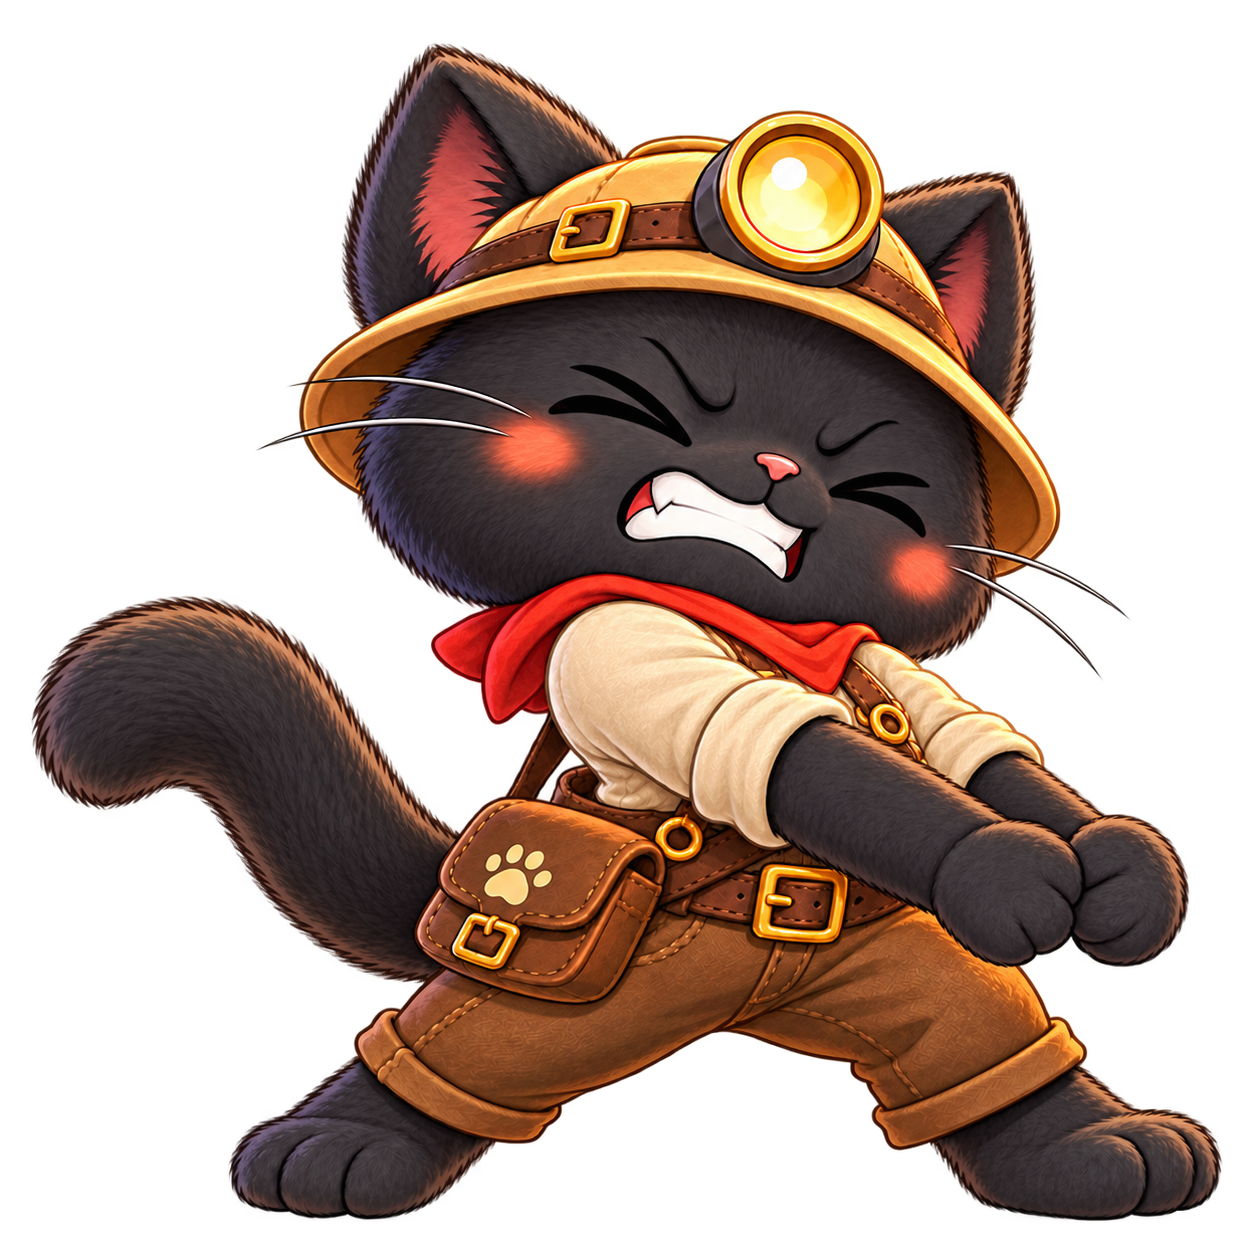
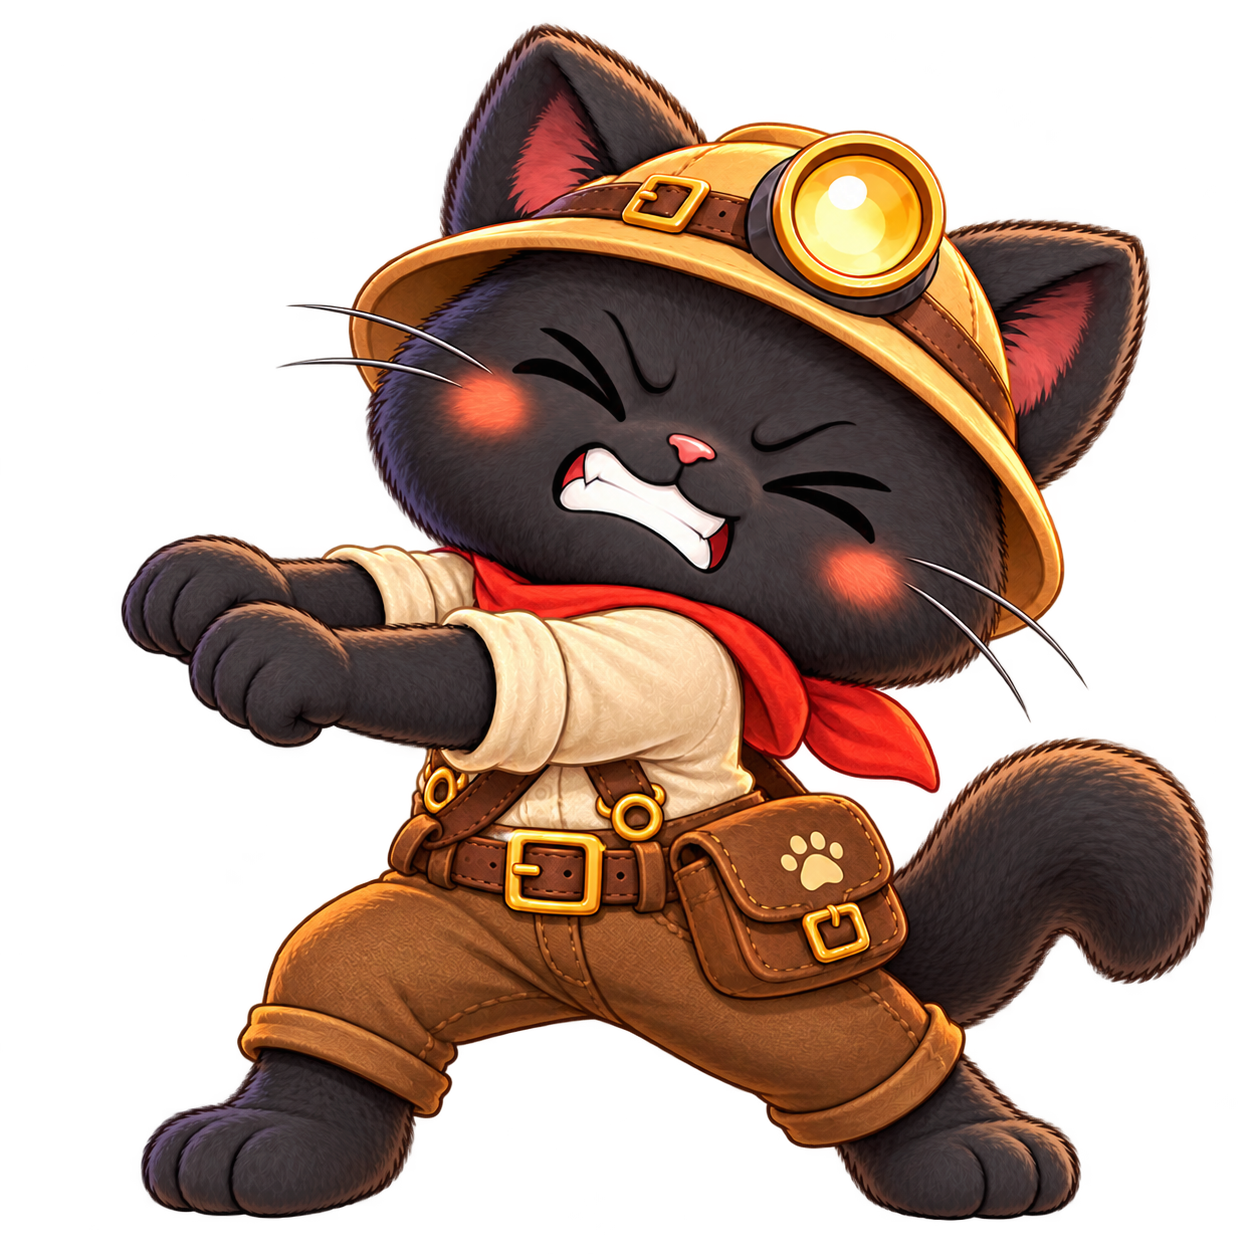
fix: show cat operating the heavy-load winch

diff --git a/tests/game.test.js b/tests/game.test.js
@@ -17,11 +17,11 @@ test('pause holds all state and resumes a loaded return',()=>{const g=playing();
 test('empty return restores swing without changing the board',()=>{const g=playing();const board=g.items;g.items=[];g.hook.state='empty';g.hook.length=40;g.score=100;g.update(.1);assert.equal(g.hook.state,'swing');assert.equal(g.items.length,0);assert.equal(g.score,100);assert.equal(g.remaining,59.9);assert.notEqual(g.items,board);});
 test('weight determines return speed',()=>{for(const type of ['largeGold','largeSilver']){const g=playing();g.hook={state:'returning',angle:0,length:300,caught:{type,...CONFIG.objects[type]}};g.update(.2);assert.ok(Math.abs(g.hook.length-(300-420/CONFIG.objects[type].weight*.2))<1e-8);}});
 test('resize pauses and preserves item identity, hook cargo, elapsed time and score',()=>{const g=playing();g.hook={state:'returning',angle:.6,length:200,caught:{id:99,type:'book',...CONFIG.objects.book,x:540,y:300,scholarId:ids[0]}};g.score=50;g.remaining=35;const before=g.items.map(x=>x.id);g.resize(true);assert.equal(g.phase,'paused');assert.deepEqual(g.items.map(x=>x.id),before);assert.equal(g.hook.caught.id,99);assert.equal(g.remaining,35);assert.equal(g.score,50);g.resize(false);assert.ok(Math.abs(g.hook.angle-.6)<1e-8);assert.ok(Math.abs(g.hook.length-200)<1e-8);});
-test('desktop and mobile equipment keep the deck, winch outlet and physics origin aligned',()=>{for(const portrait of [false,true]){const size=sceneSize(portrait),layout=equipmentLayout(size),catHeight=120*.83*layout.scale;assert.equal(layout.origin.x,size.width/2);assert.ok(Math.abs(layout.platform.y+layout.platform.height*.31-layout.deckY)<1e-8);assert.ok(Math.abs(layout.winch.y+layout.winch.height*.77-layout.origin.y)<1e-8);assert.ok(Math.abs(layout.winch.y+layout.winch.height-layout.deckY)<1e-8);assert.ok(Math.abs(layout.winch.height/catHeight-.823)<.01);assert.ok(layout.platform.x>=0&&layout.platform.x+layout.platform.width<=size.width);const game=new Game({portrait,scholars:ids});assert.deepEqual(game.origin,layout.origin);}});
+test('desktop and mobile equipment align the deck, winch outlet, crank, and physics origin',()=>{for(const portrait of [false,true]){const size=sceneSize(portrait),layout=equipmentLayout(size),catHeight=120*.83*layout.scale,pullingCatSize=catHeight,pullingCatLeft=layout.crank.x-pullingCatSize*.17;assert.equal(layout.origin.x,size.width/2);assert.ok(Math.abs(layout.platform.y+layout.platform.height*.31-layout.deckY)<1e-8);assert.ok(Math.abs(layout.winch.y+layout.winch.height*.77-layout.origin.y)<1e-8);assert.ok(Math.abs(layout.winch.y+layout.winch.height-layout.deckY)<1e-8);assert.ok(Math.abs(layout.crank.x-(layout.winch.x+layout.winch.width))<1e-8);assert.ok(Math.abs(layout.crank.y-(layout.winch.y+layout.winch.height*.45))<1e-8);assert.ok(Math.abs(layout.winch.height/catHeight-.823)<.01);assert.ok(pullingCatLeft>=layout.platform.x&&pullingCatLeft+pullingCatSize<=layout.platform.x+layout.platform.width);assert.ok(layout.platform.x>=0&&layout.platform.x+layout.platform.width<=size.width);const game=new Game({portrait,scholars:ids});assert.deepEqual(game.origin,layout.origin);}});
 test('gold, silver, gems, books and heavy penalty scrap spawn in each round',()=>{const items=generateBoard(sceneSize(false),ids,seedRandom(42));assert.equal(items.length,15);assert.equal(items.filter(x=>x.collectible!==false).length,12);assert.equal(items.filter(x=>x.type==='smallScrap').length,2);assert.equal(items.filter(x=>x.type==='largeScrap').length,1);assert.ok(fsExists(new URL('../assets/treasures/scrap-small.png',import.meta.url)));assert.ok(fsExists(new URL('../assets/treasures/scrap-large.png',import.meta.url)));for(const [small,medium,large] of [['smallGold','mediumGold','largeGold'],['smallSilver','mediumSilver','largeSilver']]){const tiers=[small,medium,large].map(type=>items.find(x=>x.type===type));assert.ok(tiers.every(Boolean));assert.ok(tiers[0].radius<tiers[1].radius&&tiers[1].radius<tiers[2].radius);assert.ok(tiers[0].score<tiers[1].score&&tiers[1].score<tiers[2].score);assert.ok(tiers[0].weight<tiers[1].weight&&tiers[1].weight<tiers[2].weight);}assert.equal(CONFIG.objects.smallScrap.score,-25);assert.equal(CONFIG.objects.largeScrap.score,-60);assert.ok(CONFIG.objects.smallScrap.weight>CONFIG.objects.largeGold.weight);assert.ok(CONFIG.objects.largeScrap.weight>CONFIG.objects.largeSilver.weight);assert.deepEqual(Object.fromEntries(Object.entries(CONFIG.objects).map(([type,spec])=>[type,spec.count])),{smallGold:2,mediumGold:1,largeGold:1,smallSilver:2,mediumSilver:2,largeSilver:1,gem:1,book:2,smallScrap:2,largeScrap:1});});
 test('all treasure sprites render without circular outlines',async()=>{assert.ok(fsExists(new URL('../assets/treasures/gem.png',import.meta.url)));const originalImage=globalThis.Image,drawn=[],arcs=[],ellipses=[];globalThis.Image=class{set src(value){this.url=value;this.width=1254;this.height=1254;this.onload();}};try{await loadSceneAssets();const ctx={save(){},restore(){},translate(){},beginPath(){},ellipse(){ellipses.push(true);},fill(){},drawImage(image){drawn.push(image.url);},arc(){arcs.push(true);}};const types=['gem','book','smallGold','mediumGold','largeGold','smallSilver','mediumSilver','largeSilver','smallScrap','largeScrap'];for(const type of types)drawItem(ctx,{type,radius:20,x:20,y:30});assert.equal(drawn.length,types.length);assert.equal(ellipses.length,types.length);assert.deepEqual(arcs,[]);}finally{if(originalImage===undefined)delete globalThis.Image;else globalThis.Image=originalImage;}});
 test('cat sprite visible feet align exactly with the platform deck',async()=>{const drawn=[],originalImage=globalThis.Image;globalThis.Image=class{set src(value){this.url=value;this.width=1254;this.height=1254;this.onload();}};try{await loadSceneAssets();drawCat({drawImage(...args){drawn.push(args);}},120,162,.83);const [, , top, ,height]=drawn.at(-1);assert.ok(Math.abs(top+height*(1222/1254)-162)<1e-9);}finally{if(originalImage===undefined)delete globalThis.Image;else globalThis.Image=originalImage;}});
-test('approved cat reaction sprites are loaded, selected, and heavy loads align the live cable to their paws',async()=>{const drawn=[],originalImage=globalThis.Image;globalThis.Image=class{set src(value){this.url=value;this.width=1254;this.height=1254;this.onload();}};try{for(const file of ['miner-cat-happy.png','miner-cat-sweaty.png','miner-cat-pulling.png'])assert.ok(fsExists(new URL(`../assets/scene/${file}`,import.meta.url)));await loadSceneAssets();const ctx={drawImage(...args){drawn.push(args);}};for(const [mood,file] of [['happy','miner-cat-happy.png'],['sweaty','miner-cat-sweaty.png'],['pulling','miner-cat-pulling.png'],['default','miner-cat.png']]){drawCat(ctx,120,162,.83,mood,480);assert.equal(drawn.at(-1)[0].url,`assets/scene/${file}`);if(mood==='pulling')assert.ok(Math.abs(drawn.at(-1)[1]+drawn.at(-1)[3]*.87-480)<1e-8);}for(const [hook,catMood,until,expected] of [[{state:'returning',caught:{weight:3}},'happy',2,'pulling'],[{state:'returning',caught:{weight:2.9}},'happy',2,'happy'],[{state:'swing',caught:null},'sweaty',2,'sweaty'],[{state:'swing',caught:null},'happy',0,'default']])assert.equal(catMoodForGame({hook,catMood,catMoodUntil:until,elapsed:1}),expected);}finally{if(originalImage===undefined)delete globalThis.Image;else globalThis.Image=originalImage;}});
+test('approved cat reaction sprites are loaded, selected, and heavy loads align the operator paws to the crank',async()=>{const drawn=[],originalImage=globalThis.Image;globalThis.Image=class{set src(value){this.url=value;this.width=1254;this.height=1254;this.onload();}};try{for(const file of ['miner-cat-happy.png','miner-cat-sweaty.png','miner-cat-pulling.png'])assert.ok(fsExists(new URL(`../assets/scene/${file}`,import.meta.url)));await loadSceneAssets();const ctx={drawImage(...args){drawn.push(args);}},crank={x:540,y:117};for(const [mood,file] of [['happy','miner-cat-happy.png'],['sweaty','miner-cat-sweaty.png'],['pulling','miner-cat-pulling.png'],['default','miner-cat.png']]){drawCat(ctx,600,162,.83,mood,crank);assert.equal(drawn.at(-1)[0].url,`assets/scene/${file}`);if(mood==='pulling'){assert.ok(Math.abs(drawn.at(-1)[1]+drawn.at(-1)[3]*.17-crank.x)<1e-8);assert.ok(Math.abs(drawn.at(-1)[2]+drawn.at(-1)[4]*.5-crank.y)<4);}}for(const [hook,catMood,until,expected] of [[{state:'returning',caught:{weight:3}},'happy',2,'pulling'],[{state:'returning',caught:{weight:2.9}},'happy',2,'happy'],[{state:'swing',caught:null},'sweaty',2,'sweaty'],[{state:'swing',caught:null},'happy',0,'default']])assert.equal(catMoodForGame({hook,catMood,catMoodUntil:until,elapsed:1}),expected);}finally{if(originalImage===undefined)delete globalThis.Image;else globalThis.Image=originalImage;}});
 test('portrait and desktop scenes use dedicated backgrounds without stretching their landmarks', async()=>{
   const originalImage=globalThis.Image,originalWindow=globalThis.window,images=[];
   globalThis.Image=class{set src(value){this.url=value;this.width=value.endsWith('sunset-mine-mobile.png')?1024:value.endsWith('sunset-mine-desktop.png')||value.endsWith('sunset-mine.png')?1672:1254;this.height=value.endsWith('sunset-mine-mobile.png')?1536:value.endsWith('sunset-mine-desktop.png')||value.endsWith('sunset-mine.png')?941:1254;images.push(this);this.onload();}};

diff --git a/src/render.js b/src/render.js
@@ -31,9 +31,9 @@ export function catMoodForGame(game) {
   if (game.hook.state === 'returning' && game.hook.caught?.weight >= 3) return 'pulling';
   return game.catMoodUntil > game.elapsed ? game.catMood : 'default';
 }
-export function drawCat(ctx, x, footY, scale=1, mood='default', cableX=null) {
+export function drawCat(ctx, x, footY, scale=1, mood='default', crank=null) {
   const sprite = (mood === 'happy' ? artwork.catHappy : mood === 'sweaty' ? artwork.catSweaty : mood === 'pulling' ? artwork.catPulling : null) || artwork.cat;
-  if(sprite){const size=120*scale,left=mood==='pulling'&&Number.isFinite(cableX)?cableX-size*.87:x-size/2;ctx.drawImage(sprite,left,footY-size*CAT_VISIBLE_BOTTOM,size,size);return;}
+  if(sprite){const size=120*scale,left=mood==='pulling'&&Number.isFinite(crank?.x)?crank.x-size*.17:x-size/2;ctx.drawImage(sprite,left,footY-size*CAT_VISIBLE_BOTTOM,size,size);return;}
   ctx.save(); ctx.translate(x,footY-50*scale); ctx.scale(scale,scale);
   ctx.strokeStyle='#313838'; ctx.lineWidth=13; ctx.lineCap='round'; ctx.beginPath(); ctx.moveTo(26,28); ctx.bezierCurveTo(65,36,70,0,52,-8);ctx.stroke();
   ellipse(ctx,0,20,27,32,'#313838');
@@ -145,7 +145,7 @@ export function drawScene(canvas, game, preview=false) {
   drawPlatform(ctx, equipment.platform);
   const catMood = catMoodForGame(game);
   if(catMood==='pulling')drawWinch(ctx,equipment.winch);
-  drawCat(ctx, w / 2 - 115 * scale, deckY, .83 * scale, catMood, equipment.origin.x);
+  drawCat(ctx, w / 2 + 115 * scale, deckY, .83 * scale, catMood, equipment.crank);
   if(catMood!=='pulling')drawWinch(ctx,equipment.winch);
   const tip = game.point();
   for (const item of game.items) drawItem(ctx, item);

diff --git a/src/config.js b/src/config.js
@@ -29,21 +29,24 @@ export function equipmentLayout(size) {
   const winchWidth = winchHeight * 1212 / 837;
   const outletRatio = .77;
   const origin = { x: size.width / 2, y: deckY - winchHeight * (1 - outletRatio) };
+  const winch = {
+    x: origin.x - winchWidth / 2,
+    y: origin.y - winchHeight * outletRatio,
+    width: winchWidth,
+    height: winchHeight,
+  };
   return {
     scale,
     deckY,
     origin,
+    // The outlet is centered below the drum; the operator crank is on its right edge.
+    crank: { x: winch.x + winch.width, y: winch.y + winch.height * .45 },
     platform: {
-      x: size.width / 2 - 40 * scale - platformWidth / 2,
+      x: size.width / 2 + 40 * scale - platformWidth / 2,
       y: deckY - platformHeight * .31,
       width: platformWidth,
       height: platformHeight,
     },
-    winch: {
-      x: origin.x - winchWidth / 2,
-      y: origin.y - winchHeight * outletRatio,
-      width: winchWidth,
-      height: winchHeight,
-    },
+    winch,
   };
 }
